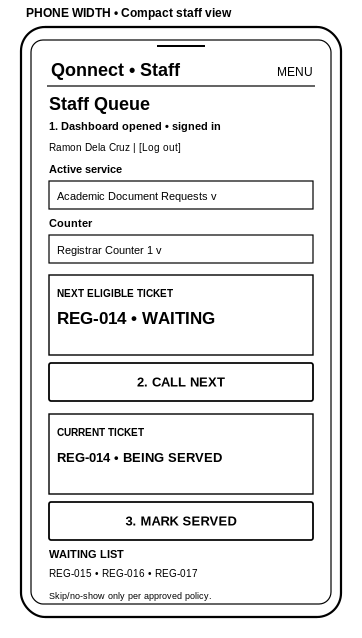
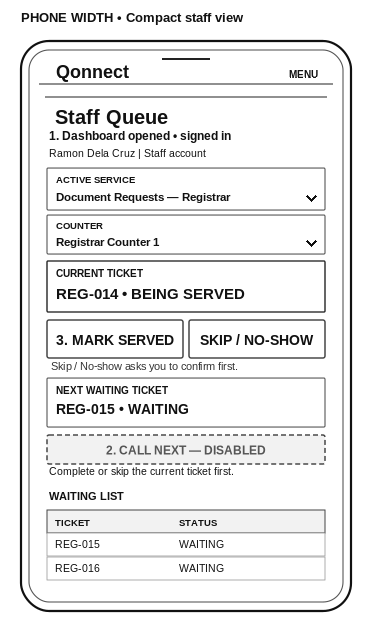
Self review of personas added on feedback.md

Changed region(s): [[0.0304, 0.0, 0.9724, 0.9921]]

diff --git a/my-app/docs/week3/feedback.md b/my-app/docs/week3/feedback.md
@@ -1,0 +1,40 @@
+## Screen 1: Services / Join
+
+**Works well:** Service names are understandable, and office instructions appear before the Join Queue button. This follows the persona's design rule of showing service details before ticket creation.
+
+**Problem:** The selected service is unclear, and the OPEN / CLOSED status is only a placeholder. The four service categories also combine different services and omit familiar labels like "Cashier" and "Registrar," making it harder for Aira to find the right service.
+
+**Change:**
+- Add a visible "✓ Selected" marker to the chosen service.
+- Show the actual service status beside the Join Queue button and disable it when closed.
+- Keep office instructions above the Join Queue button.
+
+---
+
+## Screen 2: My Ticket
+
+**Works well:** The ticket number and number of people ahead are prominent. The status uses text, the waiting-time estimate has a disclaimer, and the last-updated time is displayed.
+
+**Problem:** The phone's status is less prominent and lacks an auto-refresh notice. The indicated counter is not specified, and there is no guidance for missed calls.
+
+**Change:**
+- Make the ticket status a prominent box on the phone and add "Auto-refreshes every 10 seconds."
+- Show the assigned counter when the ticket is called.
+- Add a missed-call instruction based on approved office policy.
+
+
+---
+
+## Screen 3: Staff Queue Dashboard
+
+**Works well:** Service and counter selectors appear at the top, helping Ramon confirm the correct queue. The Call Next and Mark Served buttons are prominent and easy to reach.
+
+**Problem:** The same ticket appears as both WAITING and BEING SERVED, and the buttons remain active simultaneously. The dashboard lacks a clear Skip / No-show action, the View action is unclear, and the phone's waiting list does not provide usable controls.
+
+**Change:**
+- Show consistent ticket states and disable actions when they are invalid.
+- Display "No ticket being served" when appropriate.
+- Add a visible Skip / No-show button governed by approved office policy.
+- Replace or remove the unclear View action.
+- Make the phone waiting list as actionable as the laptop table.
+- Keep service and counter selectors at the top.
